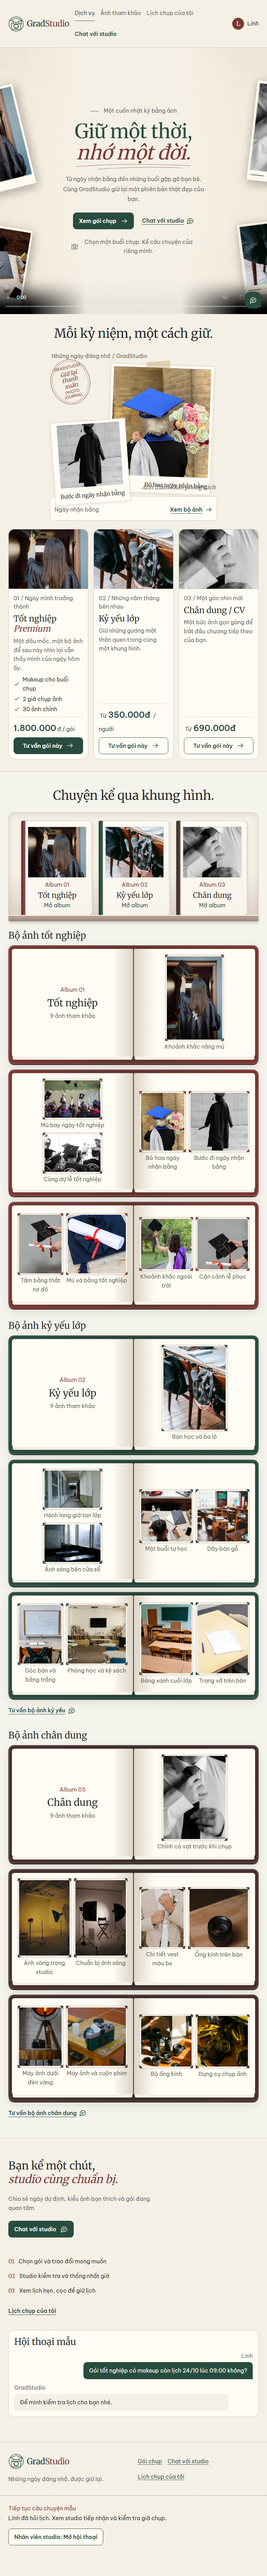
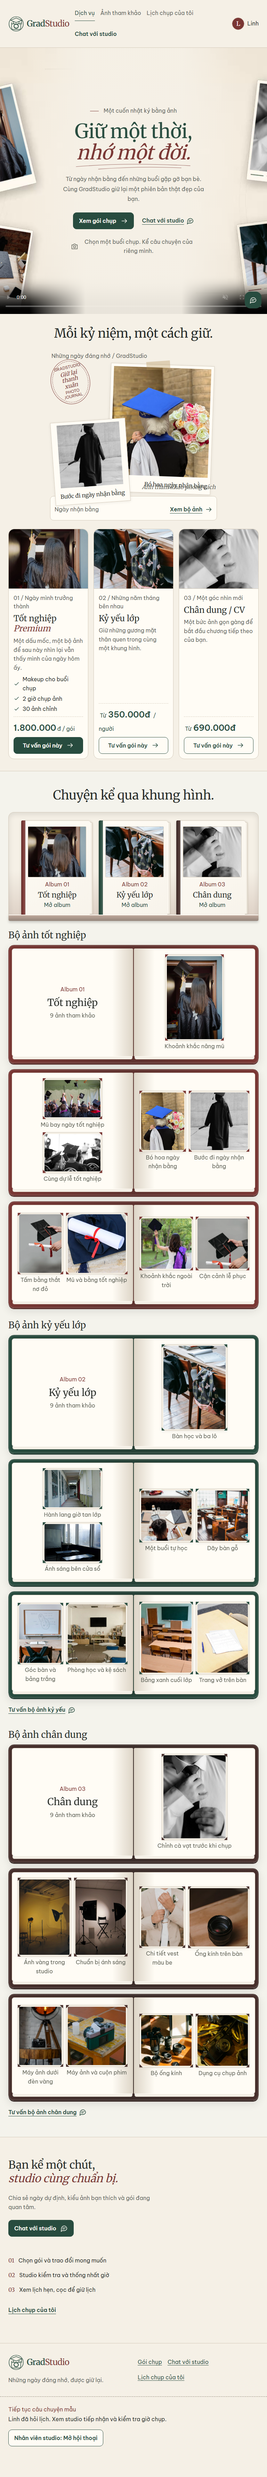
fix(pa02): remove duplicate chat preview from services page

diff --git a/css/services.css b/css/services.css
@@ -655,14 +655,6 @@
 .services-consultation h2 { margin-block: var(--space-3) var(--space-5); }
 .services-consultation-copy > p:not(.services-kicker) { color: var(--color-text-muted); max-inline-size: 410px; }
 .services-consultation-copy > .button { margin-block-start: var(--space-5); }
-.services-chat-preview {
-  grid-column: 1 / -1;
-  padding: var(--space-4);
-  border: 1px solid var(--color-border);
-  border-radius: var(--radius-card);
-  background: var(--color-surface);
-}
-.services-chat-preview .services-chat-messages { padding: var(--space-3) 0 0; }
 .services-steps { list-style: none; padding: 0; display: grid; gap: var(--space-4); margin-block: var(--space-5); }
 .services-steps li { display: flex; gap: var(--space-3); align-items: start; }
 .services-steps li > span { font-family: var(--font-heading); color: var(--color-wine); }

diff --git a/index.html b/index.html
@@ -509,19 +509,6 @@
         </ol>
         <a class="services-text-link" href="my-appointments.html">Lịch chụp của tôi</a>
       </div>
-      <section class="services-chat-preview" id="chat-preview" aria-labelledby="chat-preview-title">
-        <h3 id="chat-preview-title">Hội thoại mẫu</h3>
-        <div class="services-chat-messages">
-          <div class="services-message services-message-customer">
-            <span>Linh</span>
-            <p>Gói tốt nghiệp có makeup còn lịch 24/10 lúc 09:00 không?</p>
-          </div>
-          <div class="services-message services-message-studio">
-            <span>GradStudio</span>
-            <p>Để mình kiểm tra lịch cho bạn nhé.</p>
-          </div>
-        </div>
-      </section>
     </section>
 
   </main>

diff --git a/PROTOTYPE.md b/PROTOTYPE.md
@@ -35,8 +35,8 @@ ghi nhóm tác giả có MSSV khác danh sách nhóm PA#2 ở mục Team. Xác n
 cho phép dùng bộ ảnh GradStudio để đối chiếu PA#1 chưa có trong repo.
 
 - **Dịch vụ.** Nhóm thiết kế lại hero, xếp gói chụp và ảnh thành thẻ và
-  album theo hướng nhật ký ảnh phim. Khung chat có bản xem trước trong
-  luồng đọc và mở được bằng `details/summary` để dùng bằng bàn phím khi
+  album theo hướng nhật ký ảnh phim. Khung chat mở bằng
+  `details/summary` và dùng được bằng bàn phím khi
   tắt JS. Dưới 48rem, khung mở trong luồng trang trước chân trang. Từ
   48rem, khung mở ở góc dưới bên phải. Nút gửi tin ở màn khách bị khóa
   theo brief. Ở 360 px, ảnh hero
